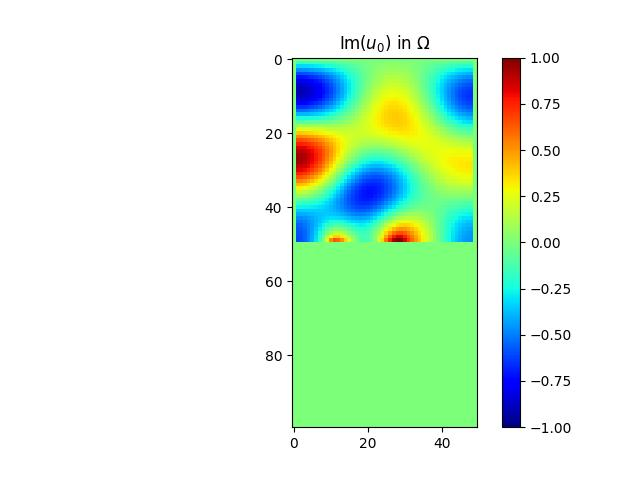
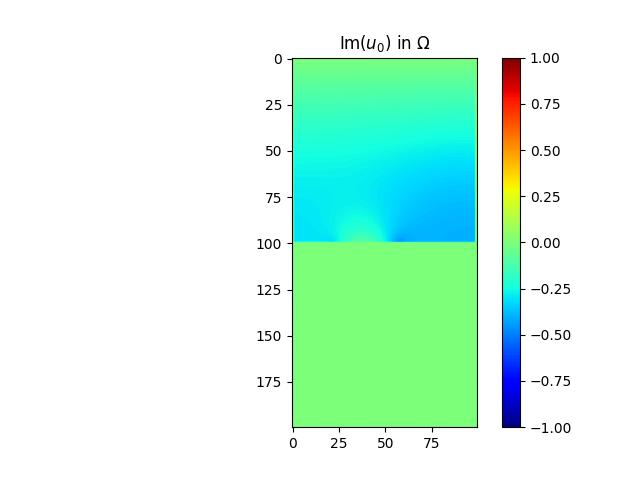
dgx

diff --git a/demo_control_polycopie2023.py b/demo_control_polycopie2023.py
@@ -184,6 +184,7 @@ def optimization_procedure(domain_omega, spacestep, omega, f, f_dir, f_neu, f_ro
                 # The step is decreased is the energy increased
                 mu = mu / 10
             
+            
             ene = new_ene
             
         chi = new_chi.copy()
@@ -226,7 +227,7 @@ if __name__ == '__main__':
     kx = -1.0
     ky = -1.0
     wavenumber = np.sqrt(kx**2 + ky**2)  # wavenumber
-    wavenumber = 10.0
+    wavenumber = 2*np.pi*100/340
 
     # ----------------------------------------------------------------------
     # -- Do not modify this cell, these are the values that you will be assessed against.
@@ -256,7 +257,7 @@ if __name__ == '__main__':
 
     # -- define material density matrix
     chi = preprocessing._set_chi(M, N, x, y)
-    #chi = np.random.choice([0, 1], size=chi.shape)
+    #chi = preprocessing._set_random_chi(M, N, x, y)
     
     chi = preprocessing.set2zero(chi, domain_omega)
 
@@ -298,10 +299,14 @@ if __name__ == '__main__':
     
     _chi = np.ones(chi.shape)
     _chi = processing.set2zero(_chi, domain_omega)
+    
+    _chi_rand = preprocessing._set_random_chi(M, N, x, y)
+    _chi_rand = processing.set2zero(_chi_rand, domain_omega)
+    
     _E = []
     _E_grad = []
     _E_start = []
-    
+    _E_rand = []
     skip = 10
     
     with open('optim_alpha_g1_config1.pkl', 'rb') as file:
@@ -322,11 +327,19 @@ if __name__ == '__main__':
     
         chi, energy, u, grad = optimization_procedure(domain_omega, spacestep, _k, f, f_dir, f_neu, f_rob,
                                                         beta_pde, alpha_pde, alpha_dir, beta_neu, beta_rob, alpha_rob,
-                                                        _alpha, mu, chi, V_obj)
+                                                          _alpha, mu, chi.copy(), V_obj)
         _E_grad.append(np.min(energy))
+        
+        _u_rand = processing.solve_helmholtz(domain_omega, spacestep, _k, f, f_dir, f_neu, f_rob,
+                        beta_pde, alpha_pde, alpha_dir, beta_neu, beta_rob, _chi_rand.copy()*_alpha)
+        _e_rand = compute_objective_function(domain_omega, _u, spacestep)
+        _E_rand.append(_e)
+        
+        
     plt.figure()
     plt.plot(alpha_ISOREL_OMEGA[::skip]/2/np.pi, _E, label='absorbent everywhere')
     plt.plot(alpha_ISOREL_OMEGA[::skip]/2/np.pi, _E_grad, label='gradient descent')
+    plt.plot(alpha_ISOREL_OMEGA[::skip]/2/np.pi, _E_rand, label='random')
     #plt.plot(alpha_ISOREL_OMEGA[::skip]/2/np.pi, _E_start, label='start point')
     plt.xlabel('frequency')
     plt.ylabel('energy')
@@ -334,6 +347,7 @@ if __name__ == '__main__':
     plt.legend(loc='upper right')
     
     plt.savefig('energy_freq.png')
+
     
     
     """chi, energy, u, grad = optimization_procedure(domain_omega, spacestep, wavenumber, f, f_dir, f_neu, f_rob,

diff --git a/preprocessing.py b/preprocessing.py
@@ -109,6 +109,10 @@ def _set_chi(M, N, x, y):
         chi[int(y[k]), int(x[k])] = val
     return chi
 
+def _set_random_chi(M, N, x, y):
+    chi = numpy.random.choice([0, 1], size=(M, N), p=[0.5, 0.5])
+    return chi
+
 
 def create_motif_koch(A, B):
     """
